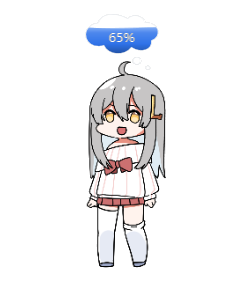
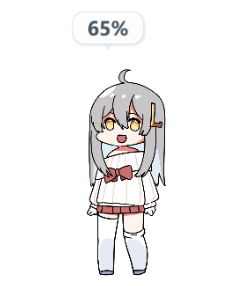
docs: 更新 README 产品图与桌宠实测气泡

Changed region(s): [[0.3443, 0.0559, 0.6885, 0.979]]

diff --git a/docs/images/readme/README.md b/docs/images/readme/README.md
@@ -16,16 +16,22 @@
 | 深色额度悬浮球 | [ball-dark.png](ball-dark.png) | 248 × 248 |
 | 自定义紫色额度悬浮球 | [ball-violet.png](ball-violet.png) | 248 × 248 |
 | DeepSeek 金额悬浮球 | [ball-deepseek.png](ball-deepseek.png) | 248 × 248 |
-| 桌宠与头顶额度气泡 | [pet-floating.png](pet-floating.png) | 244 × 286 |
-| 桌宠贴边与额度气泡 | [pet-docked.png](pet-docked.png) | 192 × 378 |
+| 历史 VPet 与旧云朵气泡（归档） | [pet-floating.png](pet-floating.png) | 244 × 286 |
+| 历史 VPet 贴边与旧云朵气泡（归档） | [pet-docked.png](pet-docked.png) | 192 × 378 |
+| 当前 VPet 角色动画帧 | [pet-vpet-current.png](pet-vpet-current.png) | 220 × 220 |
+| 当前 VPet 对白框 | [pet-vpet-speech.png](pet-vpet-speech.png) | 100 × 56 |
+| 当前鲸鱼娘角色动画帧 | [pet-whale-current.png](pet-whale-current.png) | 220 × 220 |
+| 当前鲸鱼娘额度扣减反馈 | [pet-whale-quota-stacked.png](pet-whale-quota-stacked.png) | 106 × 94 |
 
 DeepSeek 示例重点展示“今日分时”：按 5 分钟显示缓存命中、未命中和输出 Token 的消耗变化，保留程序的“估算”标记。同时显示今日使用金额 `¥3.94` 和账户余额 `¥128.64`；金额悬浮球沿用同一组演示数据。Codex 展示订阅额度和年度活动，额度及桌宠气泡示例为剩余 `65%`。
+
+2026-09-28 更新产品介绍图时，在隔离数据目录实际启动当前 WPF 桌宠：VPet 使用正常演示启动并显示对白框；鲸鱼娘使用桌面自检中的两次额度下降状态，截到连续 `-1%` 和剩余 `7%` 的卡片。上表四张新图分别来自宿主的真实窗口渲染，产品介绍图和官网透明角色图只对这些截图排版；历史面板截图仍保留 2026-08-31 的演示数据。旧云朵图片仅作历史原图存档，当前用户界面不再提供该样式。
 
 ## 采集与排版
 
 - 面板和悬浮球：运行 `ui/qt_widget.py`、`ui/qt_panel.py` 和 `ui/qt_ball.py` 的生产组件，以 Qt 2 倍缩放导出窗口原始像素。Codex 面板状态栏明确标注“演示数据”。
 - 桌宠与气泡：运行当前本地宿主构建，通过 `pet_host/PetWindow.CloudChecks.cs` 中的 `CaptureCloudPreview` 导出实际 WPF 控件，保留宿主生成的背景及贴边裁切。
-- [产品介绍图](../readme-hero.webp)：将原图等比排版为 1920 × 1624 的 WebP，添加标题、说明和来源，不更改截图中的界面文字或控件。额外保留 Codex 深色原图供对照。
+- [产品介绍图](../readme-hero.webp)：保留上述历史面板与悬浮球截图，桌宠部分于 2026-09-28 换成当前宿主实测的 VPet 对白框和鲸鱼娘额度扣减反馈，输出 1920 × 1624 WebP；未重绘截图里的界面文字或控件。额外保留 Codex 深色原图供对照。
 - 本次仅进行图片与文档验收；隔离桌面下的宿主检查不能替代真实桌面的鼠标捕获、拖拽和焦点验证。
 
 ## 官网多语言面板

diff --git a/README.ja.md b/README.ja.md
@@ -27,7 +27,7 @@
 </p>
 
 <p align="center">
-  <a href="docs/images/readme-hero.webp"><img src="docs/images/readme-hero.webp" alt="TokenMeter：Codex の利用枠、DeepSeek の本日の時間帯別使用量と残高、フローティング表示、VPet（デモデータ）" width="960"></a>
+  <a href="docs/images/readme-hero.webp"><img src="docs/images/readme-hero.webp" alt="TokenMeter：Codex の利用枠、DeepSeek の本日の時間帯別使用量と残高、フローティング表示、VPet と鯨の少女（デモデータ）" width="960"></a>
 </p>
 
 実際のコンポーネントを撮影した画面です。表示は中国語、数値はデモデータです。[元画像と出典](docs/images/readme/README.md)。

diff --git a/README.ko.md b/README.ko.md
@@ -27,7 +27,7 @@
 </p>
 
 <p align="center">
-  <a href="docs/images/readme-hero.webp"><img src="docs/images/readme-hero.webp" alt="TokenMeter: Codex 한도, DeepSeek 오늘 시간대별 사용량과 잔액, 플로팅 위젯, VPet (데모 데이터)" width="960"></a>
+  <a href="docs/images/readme-hero.webp"><img src="docs/images/readme-hero.webp" alt="TokenMeter: Codex 한도, DeepSeek 오늘 시간대별 사용량과 잔액, 플로팅 위젯, VPet과 고래 소녀 (데모 데이터)" width="960"></a>
 </p>
 
 실제 컴포넌트 화면이며 중국어 UI와 데모 데이터를 사용했습니다. [원본 이미지와 출처](docs/images/readme/README.md).

diff --git a/README.zh-TW.md b/README.zh-TW.md
@@ -27,7 +27,7 @@
 </p>
 
 <p align="center">
-  <a href="docs/images/readme-hero.webp"><img src="docs/images/readme-hero.webp" alt="TokenMeter：Codex 額度、DeepSeek 今日分時與餘額、懸浮球及 VPet 桌寵（示範資料）" width="960"></a>
+  <a href="docs/images/readme-hero.webp"><img src="docs/images/readme-hero.webp" alt="TokenMeter：Codex 額度、DeepSeek 今日分時與餘額、懸浮球、VPet 與鯨魚娘桌寵（示範資料）" width="960"></a>
 </p>
 
 真實元件截圖，介面為簡體中文，使用示範資料。[查看原圖與來源](docs/images/readme/README.md)。

diff --git a/README.en.md b/README.en.md
@@ -27,7 +27,7 @@
 </p>
 
 <p align="center">
-  <a href="docs/images/readme-hero.webp"><img src="docs/images/readme-hero.webp" alt="TokenMeter: Codex quotas, DeepSeek intraday usage and balance, floating widgets, and VPet (demo data)" width="960"></a>
+  <a href="docs/images/readme-hero.webp"><img src="docs/images/readme-hero.webp" alt="TokenMeter: Codex quotas, DeepSeek intraday usage and balance, floating widgets, VPet and Whale Girl (demo data)" width="960"></a>
 </p>
 
 Actual component screenshots in Chinese, using demo data. [Original images and sources](docs/images/readme/README.md).

diff --git a/README.md b/README.md
@@ -27,7 +27,7 @@
 </p>
 
 <p align="center">
-  <a href="docs/images/readme-hero.webp"><img src="docs/images/readme-hero.webp" alt="TokenMeter：Codex 额度、DeepSeek 今日分时与余额、悬浮球及 VPet 桌宠（演示数据）" width="960"></a>
+  <a href="docs/images/readme-hero.webp"><img src="docs/images/readme-hero.webp" alt="TokenMeter：Codex 额度、DeepSeek 今日分时与余额、悬浮球及 VPet 与鲸鱼娘桌宠（演示数据）" width="960"></a>
 </p>
 
 真实组件截图，使用演示数据。[查看原图与来源](docs/images/readme/README.md)。
